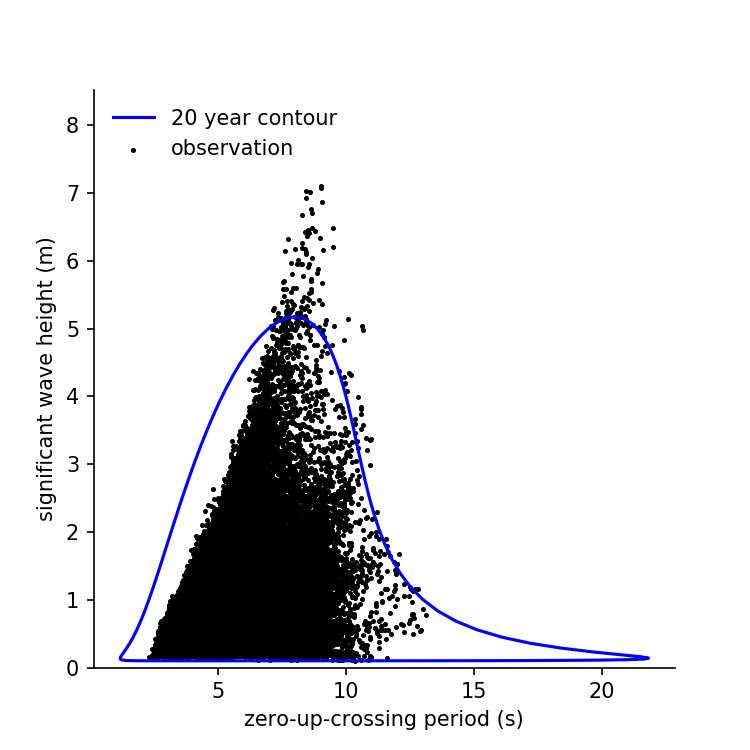
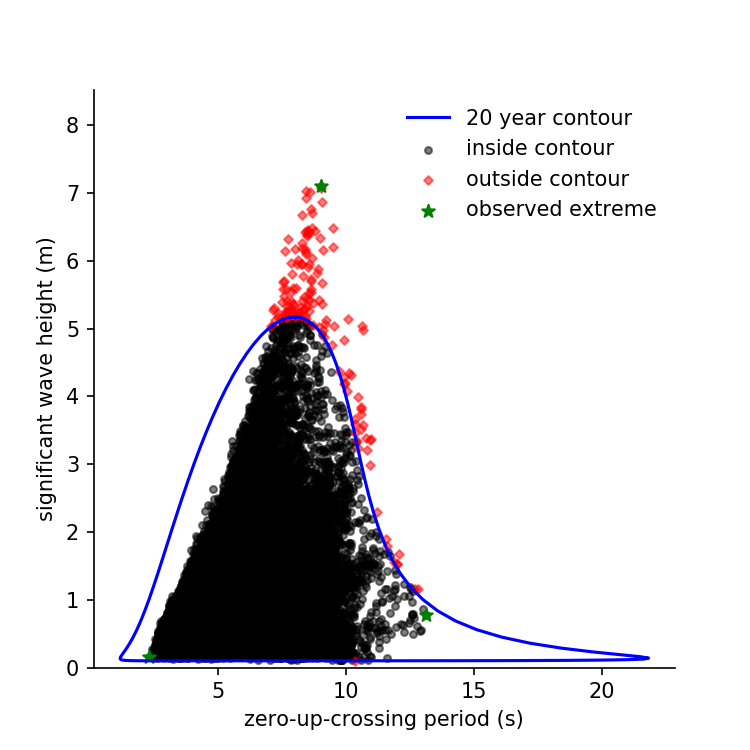
Improve plotting, show extremes and points outside the contour

diff --git a/organizers-code/plot.py b/organizers-code/plot.py
@@ -1,19 +1,60 @@
+import numpy as np
 import matplotlib.pyplot as plt
 
-def plot_sample(x, y, ax):
+
+def plot_sample(x, y, ax, x_inside=None, y_inside=None ,x_outside=None,
+                y_outside=None, do_plot_extreme=[True, True, True, True]):
     """
     Plots the sample of metocean data.
 
     Parameters
     ----------
-    x : ndarray of doubles,
+    x : ndarray of doubles
         The sample's first environmental variable.
-    y : ndarray of doubles,
+    y : ndarray of doubles
         The sample's second environmental variable.
-    ax : Axes,
+    ax : Axes
         Axes of the figure where the scatter plot should be drawn.
+    x_inside : ndarray of doubles
+        Values in the first dimension of the points inside the contour.
+    y_inside : ndarray of doubles
+        Values in the second dimension of the points inside the contour.
+    x_outside : ndarray of doubles
+        Values in the first dimension of the points outside the contour.
+    y_outside : ndarray of doubles
+        Values in the second dimension of the points outside the contour.
+    do_plot_extreme : ndarray of booleans
+        Specifies which extremes should be plotted.
+        The order is [min(x), max(x), min(y), max(y)].
     """
-    ax.scatter(x, y, s=2, c='k', label='observation')
+    if x_inside is not None and y_inside is not None:
+        ax.scatter(x_inside, y_inside, s=11, alpha=0.5, c='k', marker='o',
+                   label='inside contour')
+        ax.scatter(x_outside, y_outside, s=9, alpha=0.5, c='r', marker='D',
+                   label='outside contour')
+    else:
+        ax.scatter(x, y, s=40, alpha=0.5, c='k', marker='.', label='observation')
+    x_extremes = np.empty((4,1,))
+    x_extremes[:] = np.nan
+    y_extremes = np.empty((4,1,))
+    y_extremes[:] = np.nan
+    if do_plot_extreme[0]:
+        index_min_x = np.argmin(x)
+        x_extremes[0] = x[index_min_x]
+        y_extremes[0] = y[index_min_x]
+    if do_plot_extreme[1]:
+        index_max_x = np.argmax(x)
+        x_extremes[1] = x[index_max_x]
+        y_extremes[1] = y[index_max_x]
+    if do_plot_extreme[2]:
+        index_min_y = np.argmin(y)
+        x_extremes[2] = x[index_min_y]
+        y_extremes[2] = y[index_min_y]
+    if do_plot_extreme[3]:
+        index_max_y = np.argmax(y)
+        x_extremes[3] = x[index_max_y]
+        y_extremes[3] = y[index_max_y]
+    ax.scatter(x_extremes, y_extremes,  s=40, c='g', marker='*', label='observed extreme')
 
 
 def plot_contour(x, y, return_period, x_label='X1', y_label='X2', sample=None):
@@ -24,17 +65,17 @@ def plot_contour(x, y, return_period, x_label='X1', y_label='X2', sample=None):
 
     Parameters
     ----------
-    x : ndarray of doubles,
+    x : ndarray of doubles
         The contour's coordinates in the x-direction.
-    y : ndarray of doubles,
+    y : ndarray of doubles
         The contour's coordiantes in the y-direction.
-    return_period : float,
+    return_period : float
         The environmental contour's return period in years.
-    x_label : str,
+    x_label : str
         Label for the x-axis.
-    y_label : str,
+    y_label : str
         Label for the y-axis.
-    sample : list of lists of floats,
+    sample : list of lists of floats
         Sample of environmental states.
     """
     # For generating a closed contour: add the first coordinate at the end.
@@ -47,12 +88,25 @@ def plot_contour(x, y, return_period, x_label='X1', y_label='X2', sample=None):
     fig = plt.figure(figsize=(5,5), dpi=150)
     ax = fig.add_subplot(111)
     if sample:
-        plot_sample(sample[0], sample[1], ax)
+        if len(sample) > 2:
+            plot_sample(x=sample[0],
+                        y=sample[1],
+                        ax=ax,
+                        x_inside=sample[2],
+                        y_inside=sample[3],
+                        x_outside=sample[4],
+                        y_outside=sample[5],
+                        do_plot_extreme=sample[6])
+        else:
+            plot_sample(x=sample[0], y=sample[1], ax=ax)
     ec_label = str(return_period) + ' year contour'
     ax.plot(xplot, yplot, c='b', label=ec_label)
 
     # Format the figure.
-    plt.legend(loc='upper left', frameon=False)
+    if x_label == 'zero-up-crossing period (s)':
+        plt.legend(loc='upper right', frameon=False)
+    else:
+        plt.legend(loc='upper left', frameon=False)
     plt.xlabel(x_label)
     plt.ylabel(y_label)
     if sample:

diff --git a/organizers-code/example_compute_contour_dataset_d.py b/organizers-code/example_compute_contour_dataset_d.py
@@ -1,17 +1,21 @@
+import numpy as np
+import csv
+
 from viroconcom.fitting import Fit
 from viroconcom.contours import IFormContour
 from plot import plot_contour
-import csv
+from contour_statistics import points_outside
+
 
 sample_hs = list()
-sample_tz = list()
+sample_v = list()
 with open('../datasets/D.txt', newline='') as csv_file:
     reader = csv.reader(csv_file, delimiter=';')
     idx = 0
     for row in reader:
         if idx > 0: # Ignore the header
-            sample_hs.append(float(row[1]))
-            sample_tz.append(float(row[2]))
+            sample_v.append(float(row[1]))
+            sample_hs.append(float(row[2]))
         idx = idx + 1
 
 # Define the structure of the probabilistic model that will be fitted to the
@@ -20,22 +24,37 @@ with open('../datasets/D.txt', newline='') as csv_file:
 dist_description_hs = {'name': 'Weibull_3p',
                       'dependency': (None, None, None),
                       'width_of_intervals': 0.5}
-dist_description_tz = {'name': 'Weibull_2p',
+dist_description_v = {'name': 'Weibull_2p',
                       'dependency': (0,  None, 0), #Shape, Location, Scale
                       'functions': ('power3', None, 'power3') #Shape, Location, Scale
                       }
 
 # Fit the model to the data.
-my_fit = Fit((sample_hs, sample_tz), (dist_description_hs, dist_description_tz))
+my_fit = Fit((sample_hs, sample_v), (dist_description_hs, dist_description_v))
 
 # Compute an IFORM-contour with a return period of 50 years.
-return_period = 20
+return_period = 50
 iform_contour = IFormContour(my_fit.mul_var_dist, return_period, 1, 100)
 
+# Find datapoints that exceed the contour.
+hs_outside, v_outside, hs_inside, v_inside = \
+    points_outside(iform_contour.coordinates[0][0],
+                   iform_contour.coordinates[0][1],
+                   np.asarray(sample_hs),
+                   np.asarray(sample_v))
+print('Number of points outside the contour: ' +  str(len(hs_outside)))
+
 # Plot the contour.
+sample_struct = [np.asarray(sample_v),
+                 np.asarray(sample_hs),
+                 v_inside,
+                 hs_inside,
+                 v_outside,
+                 hs_outside,
+                 [False, True, False, True]]
 plot_contour(iform_contour.coordinates[0][1],
              iform_contour.coordinates[0][0],
              return_period,
              'wind speed (m/s)',
              'significant wave height (m)',
-             [sample_tz, sample_hs])
+             sample_struct)

diff --git a/organizers-code/example_compute_contour_dataset_a.py b/organizers-code/example_compute_contour_dataset_a.py
@@ -1,7 +1,10 @@
+import numpy as np
+import csv
+
 from viroconcom.fitting import Fit
 from viroconcom.contours import IFormContour
 from plot import plot_contour
-import csv
+from contour_statistics import points_outside
 
 sample_hs = list()
 sample_tz = list()
@@ -32,10 +35,25 @@ my_fit = Fit((sample_hs, sample_tz), (dist_description_hs, dist_description_tz))
 return_period = 20
 iform_contour = IFormContour(my_fit.mul_var_dist, return_period, 1, 100)
 
+# Find datapoints that exceed the contour.
+hs_outside, tz_outside, hs_inside, tz_inside = \
+    points_outside(iform_contour.coordinates[0][0],
+                   iform_contour.coordinates[0][1],
+                   np.asarray(sample_hs),
+                   np.asarray(sample_tz))
+print('Number of points outside the contour: ' +  str(len(hs_outside)))
+
 # Plot the contour.
+sample_struct = [np.asarray(sample_tz),
+                 np.asarray(sample_hs),
+                 tz_inside,
+                 hs_inside,
+                 tz_outside,
+                 hs_outside,
+                 [True, True, False, True]]
 plot_contour(iform_contour.coordinates[0][1],
              iform_contour.coordinates[0][0],
              return_period,
              'zero-up-crossing period (s)',
              'significant wave height (m)',
-             [sample_tz, sample_hs])
+             sample_struct)

diff --git a/organizers-code/contour_statistics.py b/organizers-code/contour_statistics.py
@@ -1,0 +1,37 @@
+import numpy as np
+import matplotlib as mpl
+
+
+def points_outside(contour_x, contour_y, x, y):
+    '''Determines the observations outside the region enclosed by the contour.
+
+    Parameters
+    ----------
+    contour_x : ndarray of doubles
+        The contour's coordinates in the x-direction.
+    contour_y : ndarray of doubles
+        The contour's coordiantes in the y-direction.
+    x : ndarray of doubles
+        The sample's first environmental variable.
+    y : ndarray of doubles
+        The sample's second environmental variable.
+
+    Returns
+    -------
+    outside_x : nparray
+        The observations that are outside of the contour of variable 1.
+
+    outside_y : nparray
+        The observations that are outside of the contour of variable 2.
+
+    '''
+    contour_path = mpl.path.Path(np.column_stack((contour_x, contour_y)))
+    is_inside_contour = contour_path.contains_points(np.column_stack((x, y)))
+    indices_is_outside = np.argwhere(is_inside_contour == False)
+    x_outside = x[indices_is_outside]
+    y_outside =  y[indices_is_outside]
+    indices_is_inside = np.argwhere(is_inside_contour == True)
+    x_inside = x[indices_is_inside]
+    y_inside =  y[indices_is_inside]
+
+    return (x_outside, y_outside, x_inside, y_inside)
